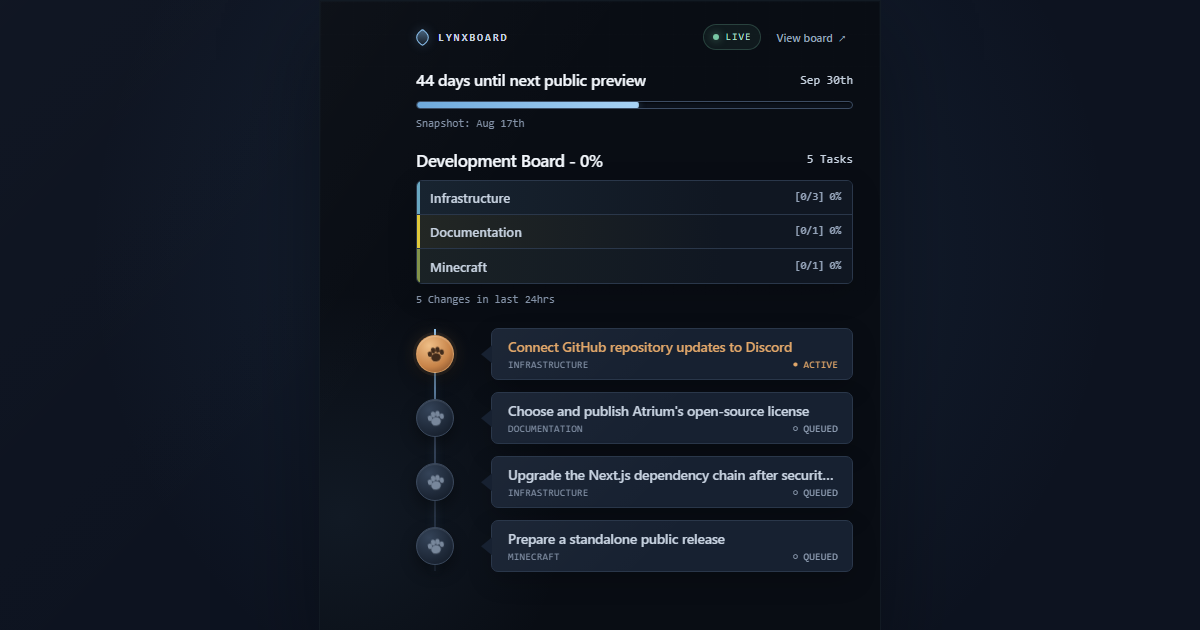
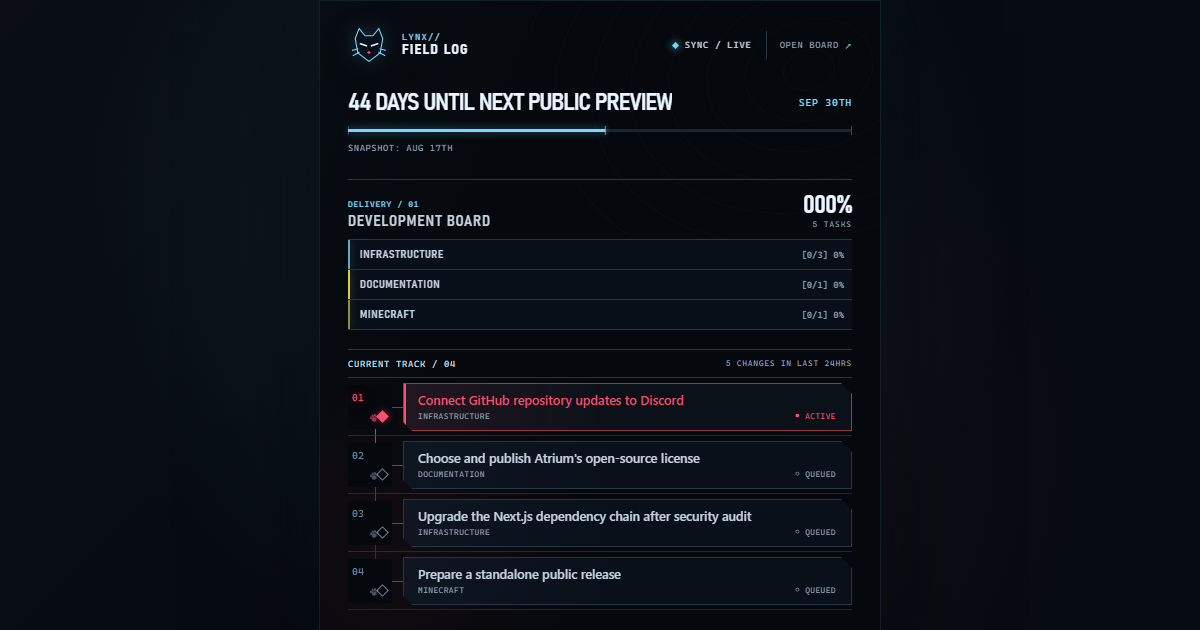
chore: prepare the Arctic Field Log release

Changed region(s): [[0.2775, 0.1206, 0.7092, 0.9651], [0.555, 0.0302, 0.7092, 0.0905], [0.2775, 0.0302, 0.4317, 0.0905]]

diff --git a/app/index.html b/app/index.html
@@ -4,10 +4,10 @@
     <meta charset="utf-8">
     <meta name="viewport" content="width=device-width, initial-scale=1">
     <meta name="color-scheme" content="dark">
-    <meta name="theme-color" content="#090d14">
+    <meta name="theme-color" content="#05080d">
     <meta name="description" content="Live GitHub Project progress in an embeddable LynxBoard widget.">
     <meta property="og:title" content="LynxBoard — live GitHub Project widget">
-    <meta property="og:description" content="Professional release telemetry synced from GitHub Projects.">
+    <meta property="og:description" content="An Arctic Field Log synced from GitHub Projects.">
     <meta property="og:type" content="website">
     <meta property="og:image" content="https://rahmibabapro.github.io/lynxboard/social-preview.png">
     <meta property="og:image:width" content="1200">

diff --git a/README.md b/README.md
@@ -9,8 +9,9 @@ A public, icy-blue delivery signal generated from the
 
 LynxBoard turns GitHub Project items into a compact release-telemetry view with a
 milestone, truthful area totals, explicit task states, current priorities, and recent
-activity. The professional ice-and-amber interface keeps its lynx signal rail while the
-browser receives only a sanitized static snapshot—never a token.
+activity. Its Arctic Field Log interface combines a lynx sigil, frost-blue telemetry,
+numbered tracking marks, and one red active-target signal. The browser receives only a
+sanitized static snapshot—never a token.
 
 GitHub Actions refreshes the source snapshot every five minutes. An open widget checks
 for the newly published snapshot every 30 seconds by default.
@@ -96,6 +97,7 @@ general-purpose developer token.
 - [Status surface contract](SPEC-status-surface.md)
 - [Embed widget contract](SPEC-embed-widget.md)
 - [Professional visual polish contract](SPEC-visual-polish.md)
+- [Arctic Field Log design research](docs/design-research-v2.md)
 - [Public delivery contract](SPEC-public-delivery.md)
 
 ## License

diff --git a/tasks/todo.md b/tasks/todo.md
@@ -39,3 +39,12 @@
 - [x] Publish and verify the polished widget release.
   - Acceptance: tests, build, live Pages deployment, and release checks succeed.
   - Verify: full test suite, clean browser console/network, and GitHub Actions.
+- [x] Research a distinctive LynxBoard visual direction.
+  - Acceptance: the direction is grounded in game UI, mission-control, and dark UI references.
+  - Verify: `docs/design-research-v2.md` records the references and final visual grammar.
+- [x] Implement the Arctic Field Log presentation.
+  - Acceptance: the widget uses the lynx sigil, numbered track, cut geometry, and target signal.
+  - Verify: screenshots at 562, 390, and 320 px with no overflow.
+- [ ] Publish and verify the v0.4 visual release.
+  - Acceptance: Pages and the live iframe match the reviewed local screenshots.
+  - Verify: GitHub Actions plus live browser checks.

diff --git a/CHANGELOG.md b/CHANGELOG.md
@@ -1,5 +1,14 @@
 # Changelog
 
+## 0.4.0 — 2026-08-17
+
+- Replace the conventional dashboard-card styling with the Arctic Field Log direction.
+- Introduce a visible lynx sigil, topographic field texture, and condensed display type.
+- Turn the task list into a numbered tracking sequence with a red active-target lock.
+- Replace rounded cards and live pills with cut corners, hairlines, and telemetry labels.
+- Add a single field-scan reveal while preserving the full reduced-motion fallback.
+- Keep the key milestone readable as a controlled two-line heading at 320 px.
+
 ## 0.3.0 — 2026-08-17
 
 - Reframe the widget as a professional, compact release-telemetry surface.

diff --git a/tasks/plan.md b/tasks/plan.md
@@ -12,6 +12,9 @@
 10. Rework the widget as a professional release-telemetry surface with explicit states.
 11. Add purposeful motion with a complete reduced-motion fallback.
 12. Verify, package, and publish the professional visual release.
+13. Research and define a non-SaaS visual direction rooted in lynx and arctic fieldwork.
+14. Recast the widget as an Arctic Field Log without changing its data behavior.
+15. Verify and publish the v0.4 visual release.
 
 ## Risks and mitigations
 

diff --git a/SPEC-visual-polish.md b/SPEC-visual-polish.md
@@ -1,5 +1,9 @@
 # Spec: professional visual polish
 
+> Visual tokens and composition were superseded by the v0.4 Arctic Field Log direction
+> in [`docs/design-research-v2.md`](docs/design-research-v2.md). Accessibility, motion,
+> resilience, and performance requirements in this document remain active.
+
 ## Objective
 
 Evolve the compact LynxBoard widget from a reference-faithful game-style panel into a
